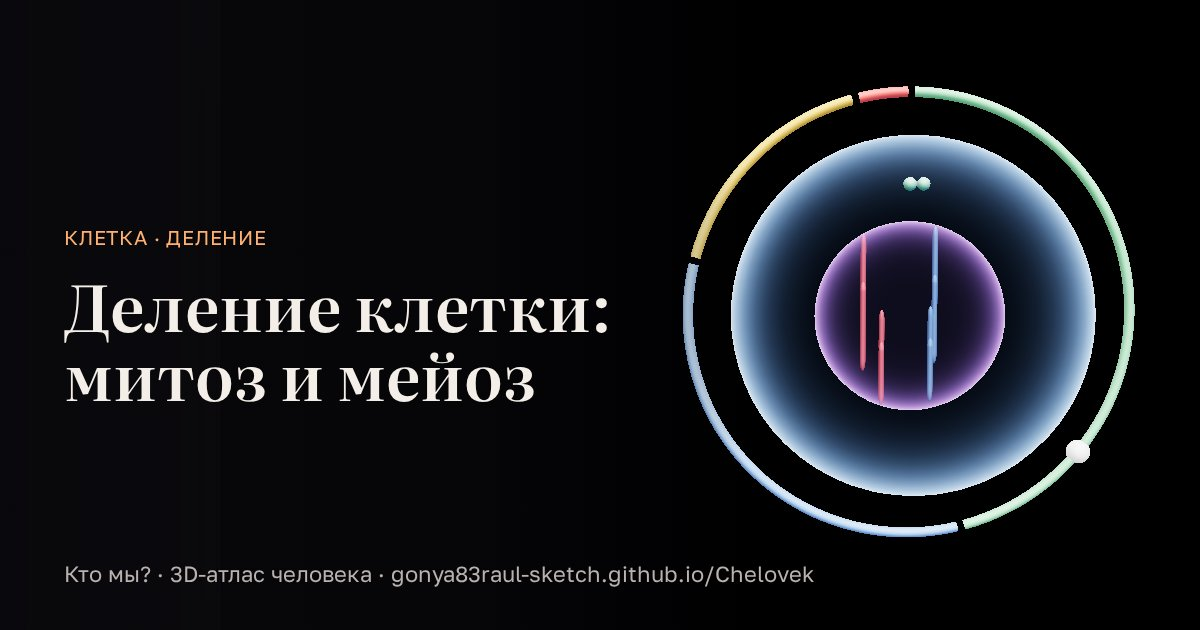
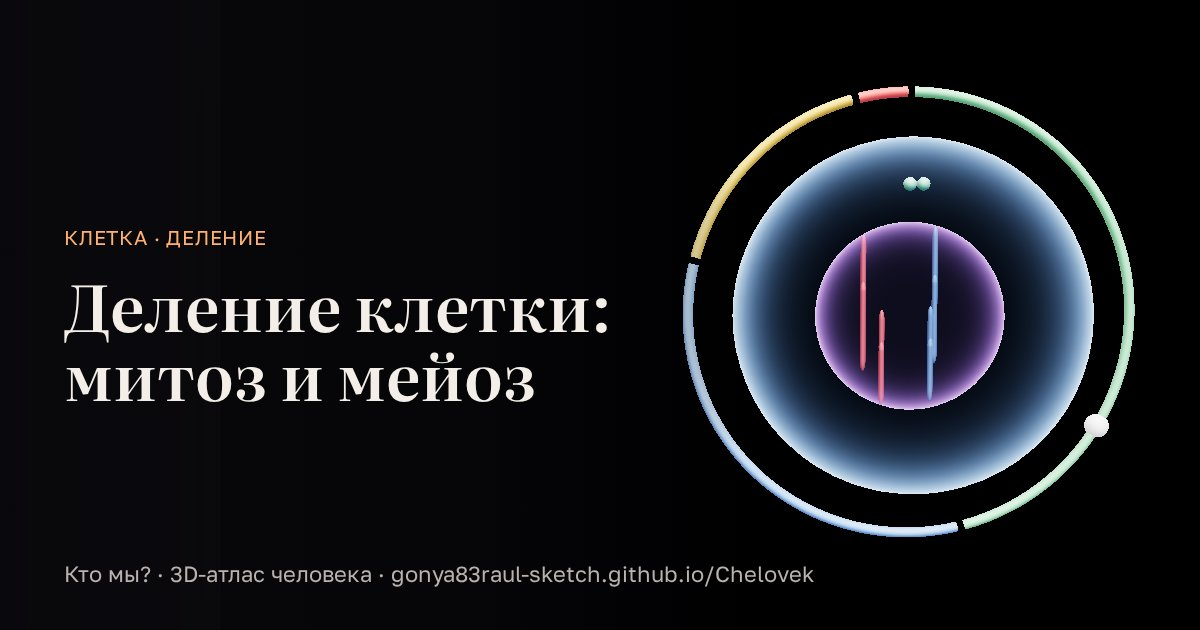
app81: новая тема «Мышца»; mitosis 5,0; превью

diff --git a/tools/build.py b/tools/build.py
@@ -79,7 +79,7 @@ ledes = [f'{t}: {mm["lede"]}' for t, mm in META.items() if 'lede' in mm]
 L0 = 'const TOPIC_LEDE = {}; // заполняет tools/build.py'
 assert page.count(L0) == 1
 page = page.replace(L0, 'const TOPIC_LEDE = { ' + ', '.join(ledes) + ' };', 1)
-APP = 'app80'   # меняется при каждой публикации со старой структурой кэша
+APP = 'app81'   # меняется при каждой публикации со старой структурой кэша
 # модели: сайт грузит models/<имя>.bin; если есть только старые .txt — перепаковать, без .bin сборку не выпускать
 MODELS = ['skeleton', 'muscles', 'vision', 'digest', 'repro']
 MDIR = os.path.join(ROOT, 'out', 'models')
